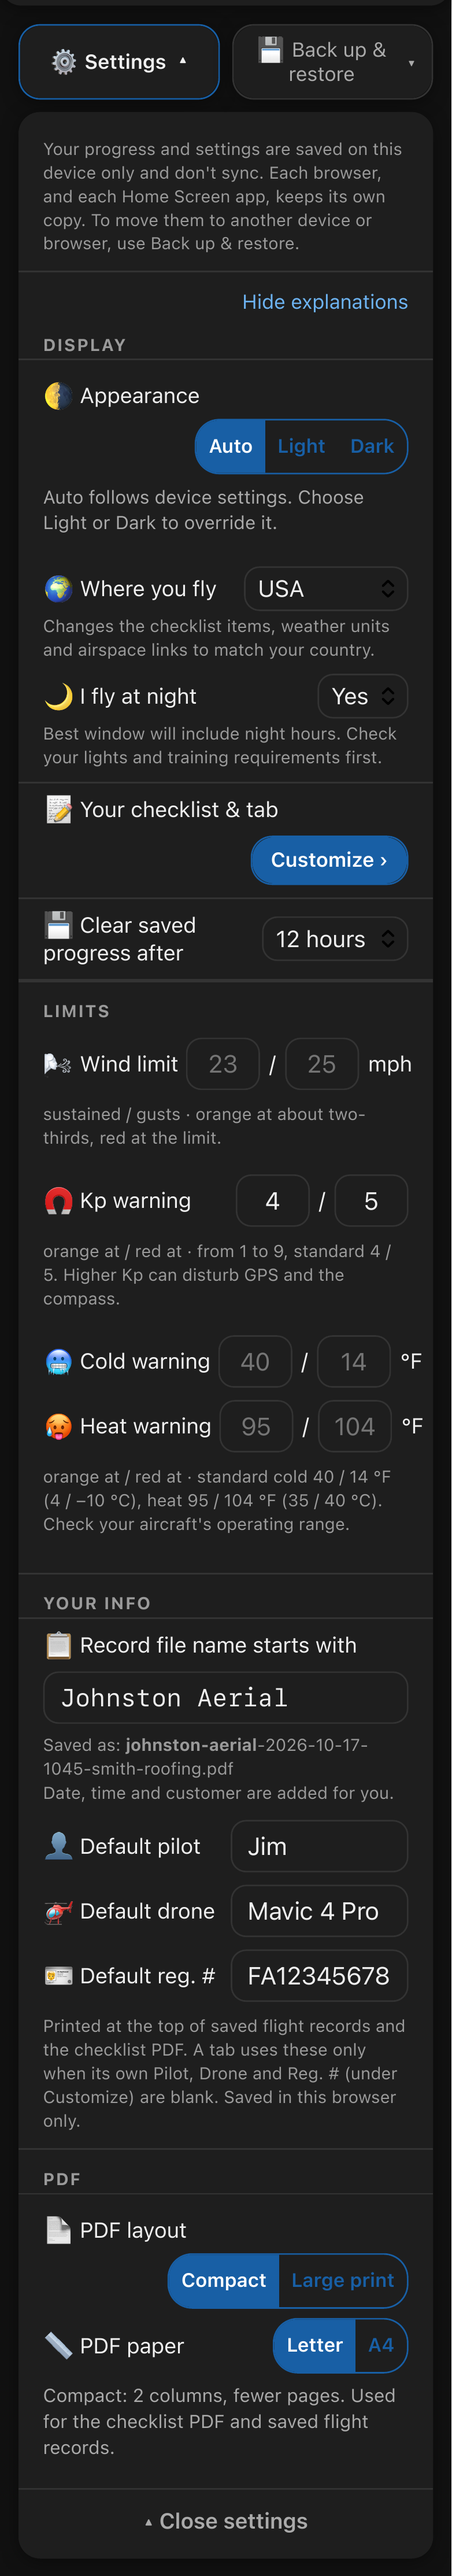
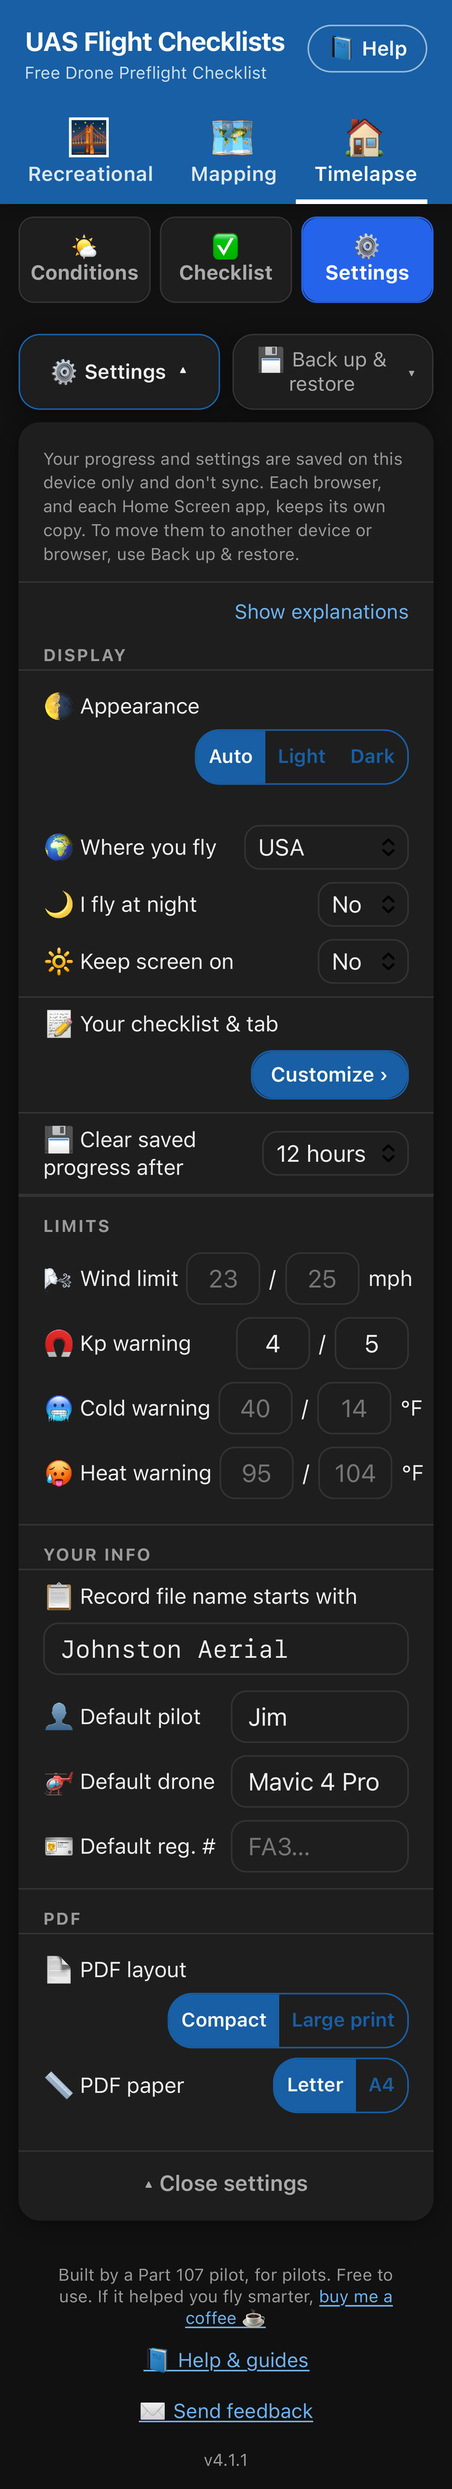
Screenshots: new Settings screenshots (three-tab layout, light and dark); README alt text
Claude-Session: https://claude.ai/code/session_01Rz8jPx2t2VhtvoTjPcbY9J

diff --git a/README.md b/README.md
@@ -22,7 +22,7 @@ A free, mobile-friendly drone preflight checklist web app with live weather cond
     <td align="center" width="50%"><picture><source media="(prefers-color-scheme: dark)" srcset="screenshots/04-reorder-dark.png"><img src="screenshots/04-reorder-light.png" alt="Customize mode with drag handles, Hide buttons and the Editing your list bar" width="170"></picture><br><sub><b>Customize: drag, hide, add</b></sub></td>
   </tr>
   <tr>
-    <td align="center" width="50%"><picture><source media="(prefers-color-scheme: dark)" srcset="screenshots/02-settings-dark.png"><img src="screenshots/02-settings-light.png" alt="Settings panel with Appearance, Where you fly, Clear saved progress after, limits, Record file name and Default pilot, drone and reg. #" width="170"></picture><br><sub><b>Settings</b></sub></td>
+    <td align="center" width="50%"><picture><source media="(prefers-color-scheme: dark)" srcset="screenshots/02-settings-dark.png"><img src="screenshots/02-settings-light.png" alt="The Settings tab with Settings and Back up & restore buttons, then Appearance, Where you fly, Keep screen on, Customize, Clear saved progress after, limits, Record file name and Default pilot, drone and reg. #, and the PDF layout" width="170"></picture><br><sub><b>Settings</b></sub></td>
     <td align="center" width="50%"><picture><source media="(prefers-color-scheme: dark)" srcset="screenshots/03-customize-dark.png"><img src="screenshots/03-customize-light.png" alt="Customize panel with tab name, Hide this tab and the Tab icon picker" width="170"></picture><br><sub><b>Rename tabs, pick an icon</b></sub></td>
   </tr>
   <tr>
